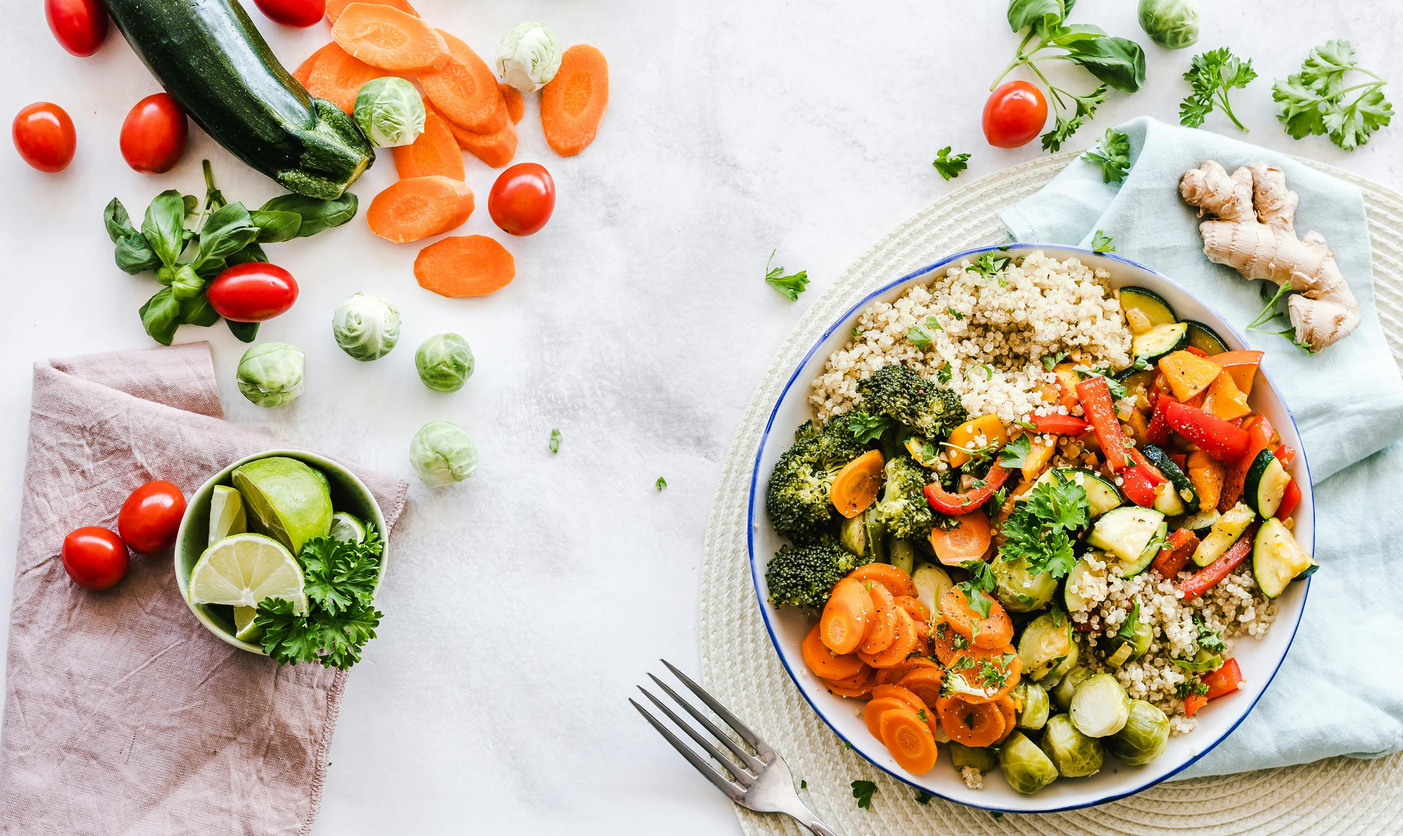
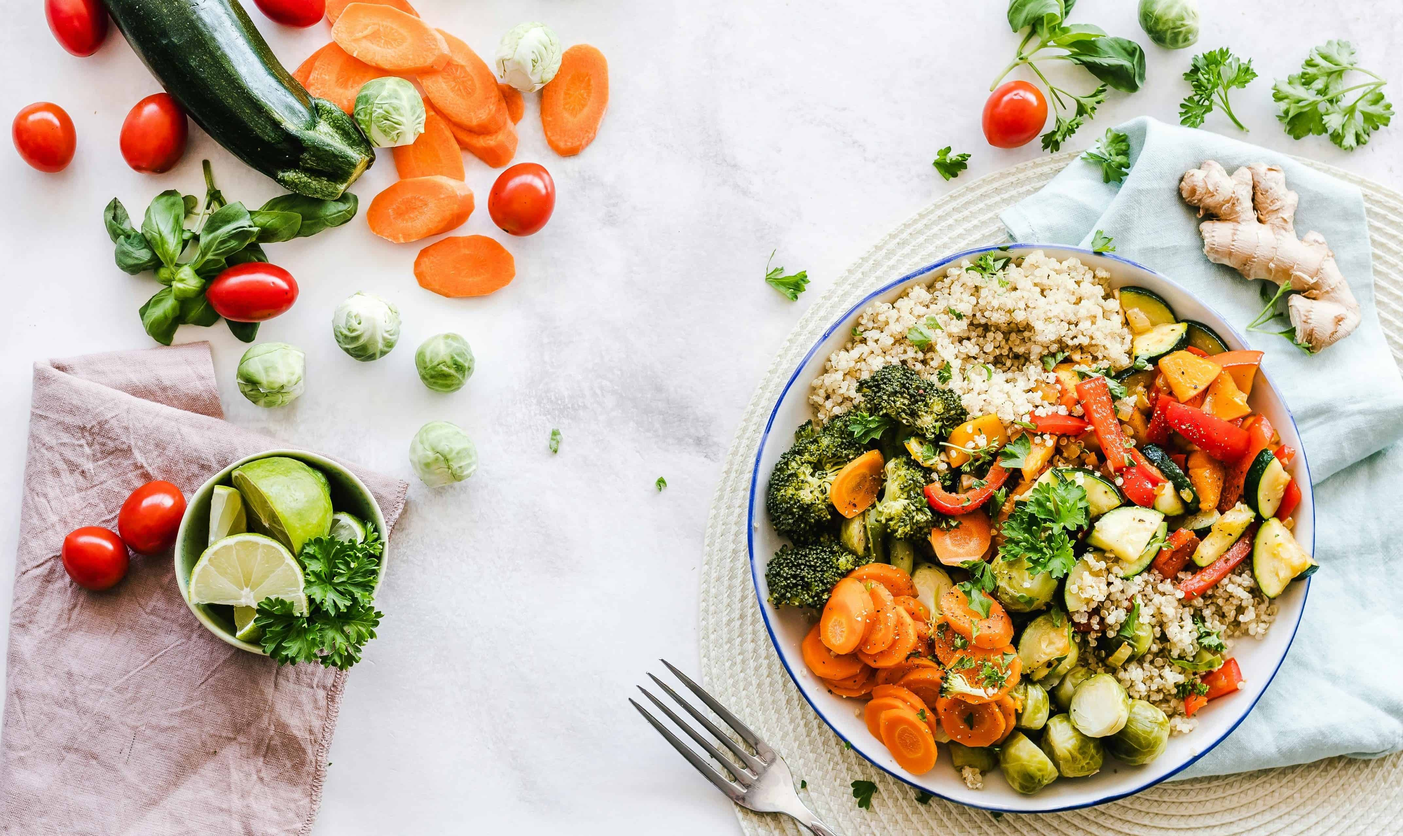
Update Commit

diff --git a/frontend/src/utils/performanceOptimizer.js b/frontend/src/utils/performanceOptimizer.js
@@ -4,14 +4,12 @@
 export const preloadCriticalImages = (imageList) => {
   if (!Array.isArray(imageList)) return;
   
-  // Create a document fragment to avoid DOM manipulation
-  const fragment = document.createDocumentFragment();
-  
   imageList.slice(0, 8).forEach(imageSrc => {
-    if (imageSrc) {
+    if (imageSrc && !imageSrc.includes('/src/assets/')) {
       const img = new Image();
+      img.onload = () => {}; // Silent success
+      img.onerror = () => {}; // Silent failure
       img.src = imageSrc;
-      // Don't append to DOM, just trigger the load
     }
   });
 };

diff --git a/frontend/src/components/FoodDisplay/FoodDisplay.jsx b/frontend/src/components/FoodDisplay/FoodDisplay.jsx
@@ -32,12 +32,14 @@ const FoodDisplay = ({ category = "All" }) => {
     if (!listToShow || !Array.isArray(listToShow)) return [];
     
     const urls = listToShow
-      .filter(item => item.image)
+      .filter(item => item.image && !item.image.includes('/src/assets/'))
       .map(item => `${url}/images/${item.image}`)
       .slice(0, 12); // Preload first 12 images
     
     // Preload immediately
-    preloadCriticalImages(urls);
+    if (urls.length > 0) {
+      preloadCriticalImages(urls);
+    }
     
     return urls;
   }, [listToShow, url]);

diff --git a/frontend/src/utils/imagePreloader.js b/frontend/src/utils/imagePreloader.js
@@ -21,7 +21,7 @@ class ImageCache {
       };
       img.onerror = () => {
         this.loading.delete(src);
-        reject(new Error(`Failed to load image: ${src}`));
+        resolve(null); // Resolve with null instead of rejecting
       };
       img.src = src;
     });
